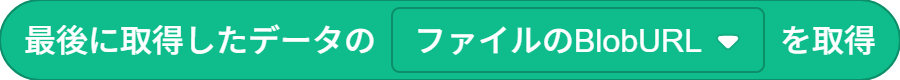
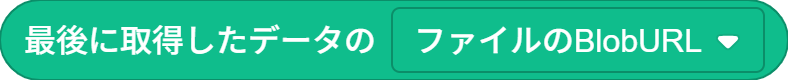
READMEを書いた

diff --git a/getsb3.js b/getsb3.js
@@ -95,7 +95,7 @@ class getSb {
           opcode: 'returnData',
           disableMonitor: true,
           blockType: Scratch.BlockType.REPORTER,
-          text: '最後に取得したデータの [DataType] を取得',
+          text: '最後に取得したデータの [DataType]',
           arguments: {
             DataType: {
               type: Scratch.ArgumentType.STRING,

diff --git a/README.md b/README.md
@@ -1,4 +1,20 @@
 # GetSB3
 ScratchプロジェクトIDからタイトルとsb3ファイルを取得するTurboWarp用拡張機能。
 ## 各ブロック
-![最後に取得したデータのIDを取得](img/ID.png)  
+![ScratchのプロジェクトID 60917032 からデータを取得](img/GETDATA.png)  
+このあとに使うデータを取得できる。
+入力欄にはScratchのプロジェクトID  
+（https://scratch.mit.edu/projects/60917032/ だったら「60917032」 ）  
+を入力する。  
+![最後に取得したデータのID](img/ID.png)   
+最後にデータを取得したときに入力したプロジェクトID。  
+![最後に取得したデータのタイトル](img/TITLE.png)  
+IDから取得したプロジェクトのタイトル（例：「Appel v1.4」）。
+![最後に取得したデータのファイルのBlobURL](img/BLOBURL.png)  
+IDから取得したプロジェクトのsb3ファイルのBlobURL。  
+TurboWarpnの「ファイル」拡張機能などで使える。  
+BlobURLについては各自で調べてください。
+## クレジット
+「SBDL」 : [GarboMuffin（Thomas Weber）様](https://github.com/GarboMuffin)
+## ライセンス
+[MIT License](LICENSE)
